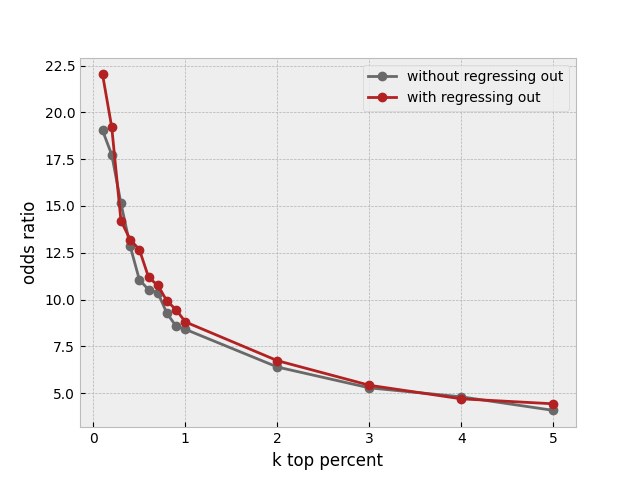
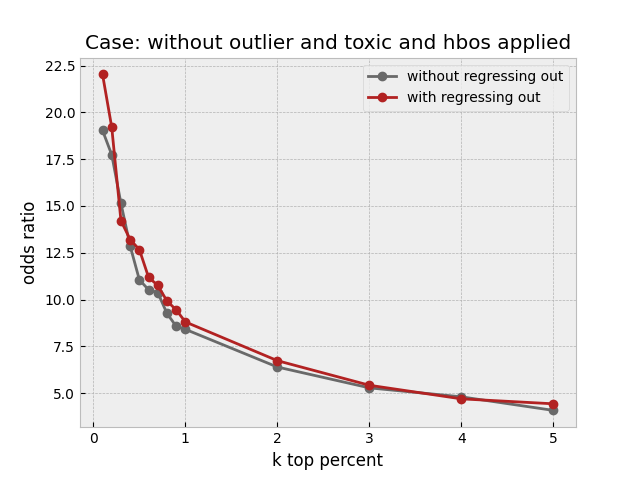
add plots

Changed region(s): [[0.125, 0.0625, 0.9062, 0.125]]

diff --git a/create_figure.py b/create_figure.py
@@ -16,11 +16,12 @@ remove_outlier_remove_toxic_hbos_regress = [22.028520357497516, 19.1997920930383
 
 
 
-plt.plot(k,remove_outlier_remove_toxic_regress, marker = 'o', label ='without hbos outlier detection', color = 'dimgray')
-plt.plot(k,remove_outlier_remove_toxic_hbos_regress,marker = 'o' ,label ='with hbos outlier detection', color ='firebrick' )
+plt.plot(k,remove_outlier, marker = 'o', label ='without regressing out', color = 'dimgray')
+plt.plot(k,remove_outlier_regress,marker = 'o' ,label ='with regressing out ', color ='firebrick' )
 plt.xlabel('k top percent')
 plt.ylabel('odds ratio')
 # plt.title('title')
 plt.legend()
 # plt.show()
-plt.savefig('figures/plots/remove_outlier_toxic_regress_vs_remove_outlier_toxic_hbos_regress.png')
+plt.title('Case: without outlier drugs')
+plt.savefig('figures/plots/remove_outlier_vs_remove_outlierregress.png')
